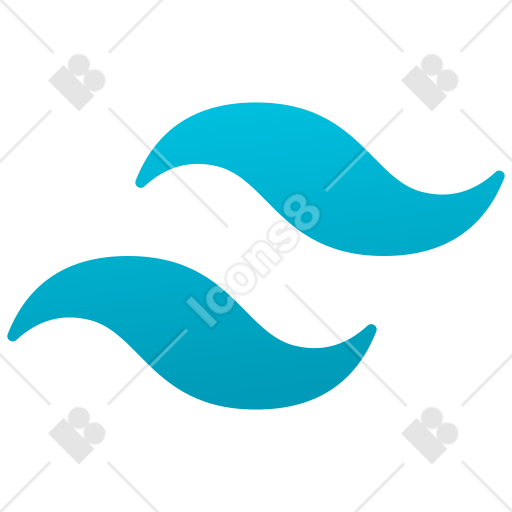
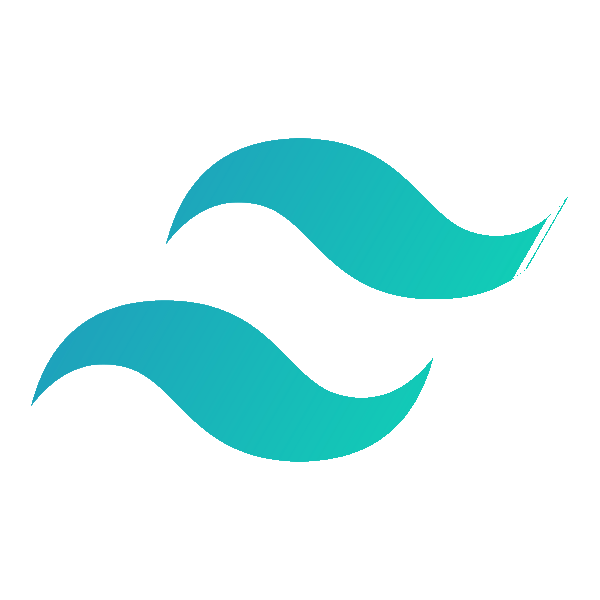
Update images to be transparent

diff --git a/src/App.jsx b/src/App.jsx
@@ -12,7 +12,7 @@ import javalogo from './assets/java.png'
 import javascriptlogo from './assets/javascript.png'
 import htmlcsslogo from './assets/html-5.png'
 import gitlogo from './assets/git.png'
-import fastapilogo from './assets/api.png'
+import fastapilogo from './assets/fastapi.png'
 import tailwindlogo from './assets/tailwind.png'
 import reactlogo from './assets/react.png'
 import pandaslogo from './assets/pandas.png'
@@ -38,12 +38,12 @@ function App() {
       <div className="fixed top-0 right-0 bg-black/70 backdrop-blur-md text-white z-50 border-b border-white/10">
         <div className="max-w-6xl mx-auto px-4 py-3 flex justify-between items-center">
 
-      <a
-        href="mailto:ductranphan@cmail.carleton.ca"
-        className="text-m px-3 py-1 rounded-md bg-purple-600 hover:bg-purple-700 transition inline-block"
-      >
-        Contact Me
-      </a>
+          <a
+            href="mailto:ductranphan@cmail.carleton.ca"
+            className="text-m px-3 py-1 rounded-md bg-purple-600 hover:bg-purple-700 transition inline-block"
+          >
+            Contact Me
+          </a>
 
         </div>
       </div>
@@ -52,11 +52,11 @@ function App() {
       <div className=" justify-center bg-black p-6 mt-8">
         <div className="w-full max-w-4xl flex flex-col md:flex-row items-center md:items-start gap-8">
           <div className='profile-column flex flex-col items-center gap-2'>
-            <img src={profile} className="profile" alt="Duc Tran Phan"/>
+            <img src={profile} className="profile" alt="Duc Tran Phan" />
 
-            <span className = "text-left text-purple-500">Ottawa, Ontario, CA</span>
+            <span className="text-left text-purple-500">Ottawa, Ontario, CA</span>
 
-            <div className = "flex gap-2 items-center">
+            <div className="flex gap-2 items-center">
               <a href="https://www.linkedin.com/in/ductranphan" target="_blank" rel="noopener noreferrer" className="inline-flex items-center p-1 rounded transition duration-150 hover:scale-105">
                 <img className="w-10 h-10 bg-transparent object-contain transition duration-150 dark:md:hover:bg-fuchsia-600" alt="LinkedIn" src={linkedlnLogo} />
               </a>
@@ -68,22 +68,22 @@ function App() {
               </a>
             </div>
           </div>
-          <div className= 'App_text flex-1 text-left'>
-            <h1 className = "text-5xl md:text-6xl font-heading font-bold text-white mb-2">
-              Duc Tran Phan 
+          <div className='App_text flex-1 text-left'>
+            <h1 className="text-5xl md:text-6xl font-heading font-bold text-white mb-2">
+              Duc Tran Phan
             </h1>
-            <h2 className = "text-xl md:text-2xl text-gray-400 mt-2">
+            <h2 className="text-xl md:text-2xl text-gray-400 mt-2">
               Aspiring Software Engineer | Data Scientist
             </h2>
 
-            <p className = "text-md text-white mt-4 max-w-xl">
-              <span className = "text-purple-500">3.78/4.00 GPA</span> - Dean's Honour List
+            <p className="text-md text-white mt-4 max-w-xl">
+              <span className="text-purple-500">3.78/4.00 GPA</span> - Dean's Honour List
             </p>
 
-            <p className = "text-md text-gray-300 mt-4 max-w-xl">
-              Second year Computer Science, specialized in AI/Machine Learning stream, student at <span className="text-purple-500">Carleton University</span>. Passionate about leveraging technology to solve real-world problems and eager to contribute to innovative projects in software engineering and data science. 
+            <p className="text-md text-gray-300 mt-4 max-w-xl">
+              Second year Computer Science, specialized in AI/Machine Learning stream, student at <span className="text-purple-500">Carleton University</span>. Passionate about leveraging technology to solve real-world problems and eager to contribute to innovative projects in software engineering and data science.
               In my free time, I enjoy working out, training martial arts, reading books, and exploring new technologies.
-            </p>  
+            </p>
 
           </div>
         </div>
@@ -103,19 +103,19 @@ function Experience() {
     <>
       <div className="text-left mt-8">
         <h2 className="bg-gradient-to-r from-white to-purple-500 bg-clip-text text-transparent text-4xl font-semibold">Experience</h2>
-        <hr className = "my-4 border-gray-700"></hr>
+        <hr className="my-4 border-gray-700"></hr>
         <ul className=" mt-4 space-y-4 text-gray-300">
           <li>
             <div className="flex items-start justify-between gap-6">
 
-              <div className = "flex-1">
+              <div className="flex-1">
                 <h3 className="text-lg font-medium text-purple-500">Software Developer at FPT Corporation</h3>
-                <span className = "font-medium text-white mb-5">Internship | Remote</span>
+                <span className="font-medium text-white mb-5">Internship | Remote</span>
               </div>
 
               <div className="w-36 flex flex-col items-center text-sm text-gray-400">
                 <span className="font-medium text-white">May 2025 — Sep 2025</span>
-                <span className ="font-medium text-white mb-5">Ho Chi Minh, Vietnam</span>
+                <span className="font-medium text-white mb-5">Ho Chi Minh, Vietnam</span>
               </div>
 
             </div>
@@ -137,7 +137,7 @@ function Projects() {
       title: "SpotiMe",
       tags: ["Python", "Pandas", "REST API", "Streamlit", "JSON"],
       date: "Sep 2025 — Oct 2025",
-      image:  spotifybackground ,
+      image: spotifybackground,
       codeUrl: "https://spotime.streamlit.app/",
       details: [
         "- Personalized Spotify analytics dashboard that visualizes your listening habits, top tracks, and favorite artists over various time frames",
@@ -152,7 +152,7 @@ function Projects() {
       title: "Snake Game",
       tags: ["Java", "Swing"],
       date: "Jan 2024 — Feb 2024",
-      image:  snake ,
+      image: snake,
       codeUrl: "https://github.com/ductranphan/snakegame",
       details: [
         "- Classic Snake Game built using Java and Swing, featuring smooth controls and responsive design for an engaging user experience",
@@ -161,7 +161,7 @@ function Projects() {
     }
   ]
 
-  const projects =  [...project1, ...project2];
+  const projects = [...project1, ...project2];
 
   return (
     <div className="text-left mt-16">
@@ -202,18 +202,18 @@ function ProjectCard({ data }) {
       <div className="p-5">
         <h3 className="text-xl font-semibold text-purple-500 mb-1">{data.title}</h3>
 
-      {/* Tags */}
-      <div className="flex flex-wrap gap-2 mt-4 mb-3">
-        {data.tags.map((tag, idx) => (
-          <span
-            key={idx}
-            className="text-xs px-3 py-1 rounded-full bg-gray-800/70 
+        {/* Tags */}
+        <div className="flex flex-wrap gap-2 mt-4 mb-3">
+          {data.tags.map((tag, idx) => (
+            <span
+              key={idx}
+              className="text-xs px-3 py-1 rounded-full bg-gray-800/70 
             border border-gray-600 text-gray-200"
-          >
-            {tag}
-          </span>
-        ))}
-      </div>
+            >
+              {tag}
+            </span>
+          ))}
+        </div>
 
         {/* Project Details */}
         {data.details.map((detail, idx) => (
@@ -226,12 +226,12 @@ function ProjectCard({ data }) {
           </a>
         )}
 
+      </div>
     </div>
-  </div>
   );
 }
 
-function Skills(){
+function Skills() {
   const skills = [
     { name: "Python", image: pythonlogo },
     { name: "Java", image: javalogo },
@@ -244,12 +244,12 @@ function Skills(){
     { name: "Tailwind", image: tailwindlogo },
     { name: "React", image: reactlogo },
     { name: "Pandas", image: pandaslogo },
-    { name: "NumPy", image:  numpylogo },
+    { name: "NumPy", image: numpylogo },
   ];
 
   return (
     <>
-      <div className ="text-left mt-16">
+      <div className="text-left mt-16">
         <h2 className="text-4xl font-semibold text-white">Technical Skills</h2>
         <hr className="my-4 border-gray-700" />
       </div>
@@ -262,20 +262,20 @@ function Skills(){
         </div>
       </div>
 
-    <br>
-    </br>
-    <br>
-    </br>
+      <br>
+      </br>
+      <br>
+      </br>
 
-  <div className="flex justify-center items-center">
-      <span className="text-s px-3 py-1 rounded-full text-gray-300">
-          Made using <span className='text-purple-500'>React.js</span> and <span className='text-purple-500'>Tailwind CSS</span>, depolyed on <span className = 'text-purple-500' >Vercel</span>
-      </span>
+      <div className="flex justify-center items-center">
+        <span className="text-s px-3 py-1 rounded-full text-gray-300">
+          Made using <span className='text-purple-500'>React.js</span> and <span className='text-purple-500'>Tailwind CSS</span>, depolyed on <span className='text-purple-500' >Vercel</span>
+        </span>
 
-      <a href="https://github.com/ductranphan" target="_blank" rel="noopener noreferrer" className="inline-flex items-center p-1 rounded transition duration-150 hover:scale-105">
-        <img className="w-8 h-8 bg-transparent object-contain transition duration-150 dark:md:hover:bg-fuchsia-600" alt="GitHub" src={githubLogo} />
-      </a>
-  </div>
+        <a href="https://github.com/ductranphan" target="_blank" rel="noopener noreferrer" className="inline-flex items-center p-1 rounded transition duration-150 hover:scale-105">
+          <img className="w-8 h-8 bg-transparent object-contain transition duration-150 dark:md:hover:bg-fuchsia-600" alt="GitHub" src={githubLogo} />
+        </a>
+      </div>
 
     </>
   );
@@ -283,31 +283,31 @@ function Skills(){
 
 function SkillsCard({ data }) {
   return (
-  <>
-    <div className="rounded-2xl overflow-hidden bg-gradient-to-br 
+    <>
+      <div className="rounded-2xl overflow-hidden bg-gradient-to-br 
       from-gray-900 to-black shadow-xl border border-white/10 
       hover:scale-[1.02] hover:shadow-2xl hover:border-white/20 
       transition duration-300 p-4 flex flex-col items-center text-center h-full">
 
-      {/* image on top, name below */}
-      {data.image ? (
-        <img
-          src={data.image}
-          alt={data.name}
-          className="w-14 h-14 object-cover rounded-md mb-3"
-        />
-      ) : (
-        <div className="w-14 h-14 rounded-md bg-transparent mb-3" />
-      )}
+        {/* image on top, name below */}
+        {data.image ? (
+          <img
+            src={data.image}
+            alt={data.name}
+            className="w-14 h-14 object-cover rounded-md mb-3"
+          />
+        ) : (
+          <div className="w-14 h-14 rounded-md bg-transparent mb-3" />
+        )}
 
-      <div className="font-medium text-sm mt-1 text-white">{data.name}</div>
-    </div>
-  </>
+        <div className="font-medium text-sm mt-1 text-white">{data.name}</div>
+      </div>
+    </>
   )
 }
 
 export default App
-export {Experience}
-export {Projects}
+export { Experience }
+export { Projects }
 
 
